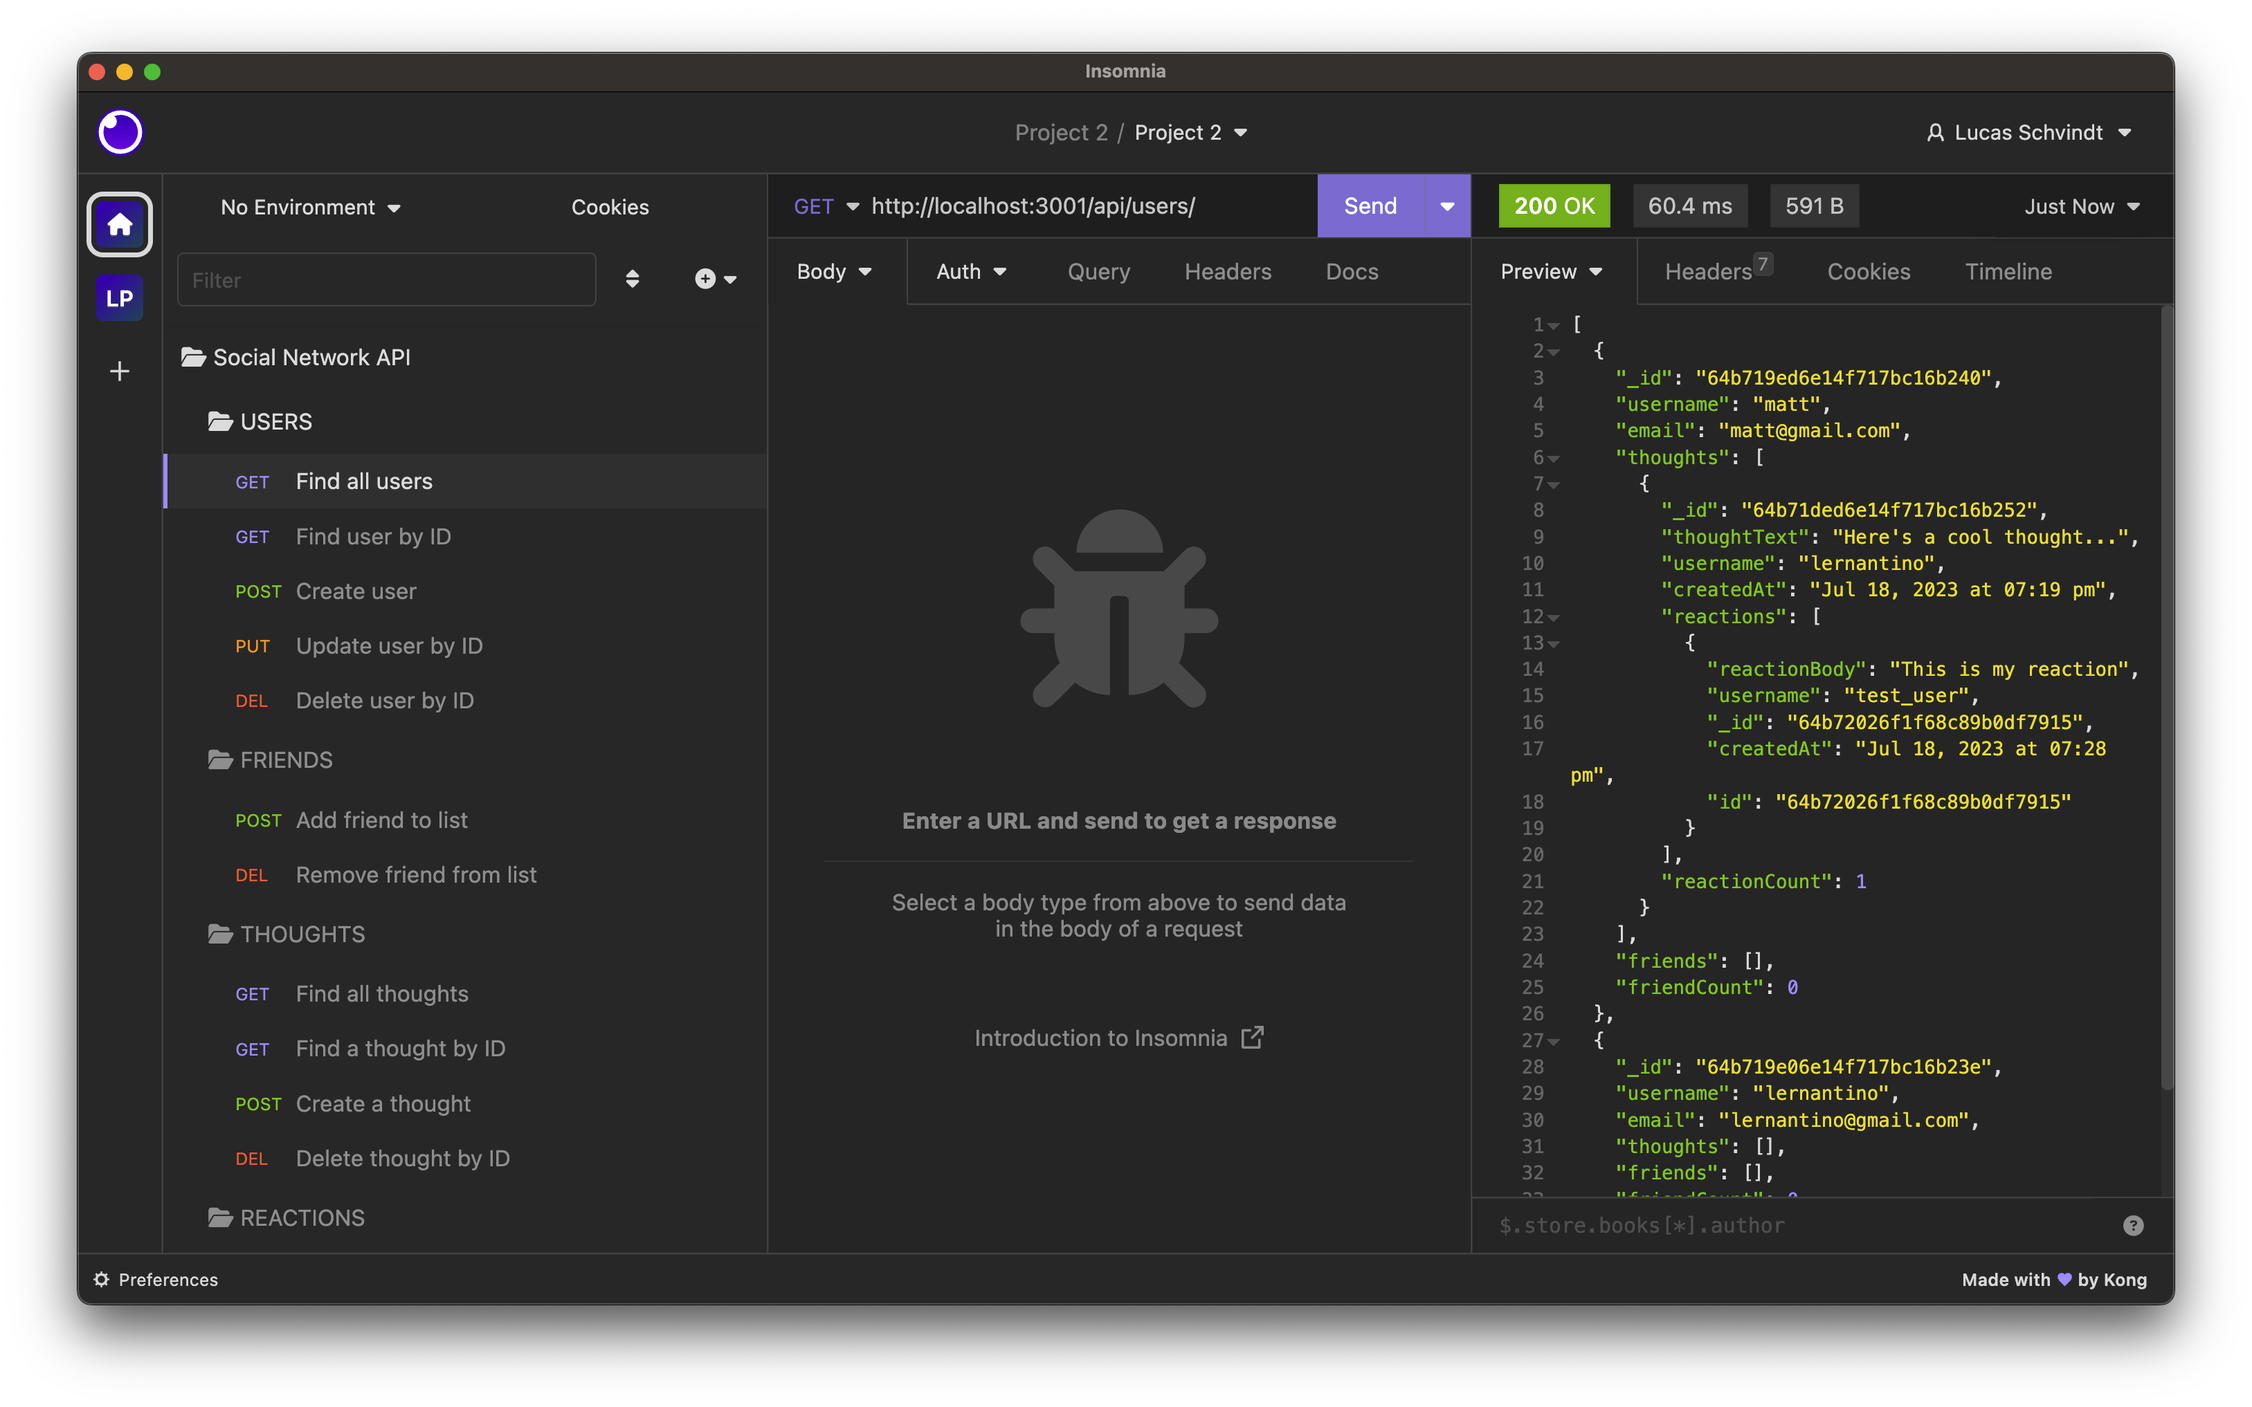
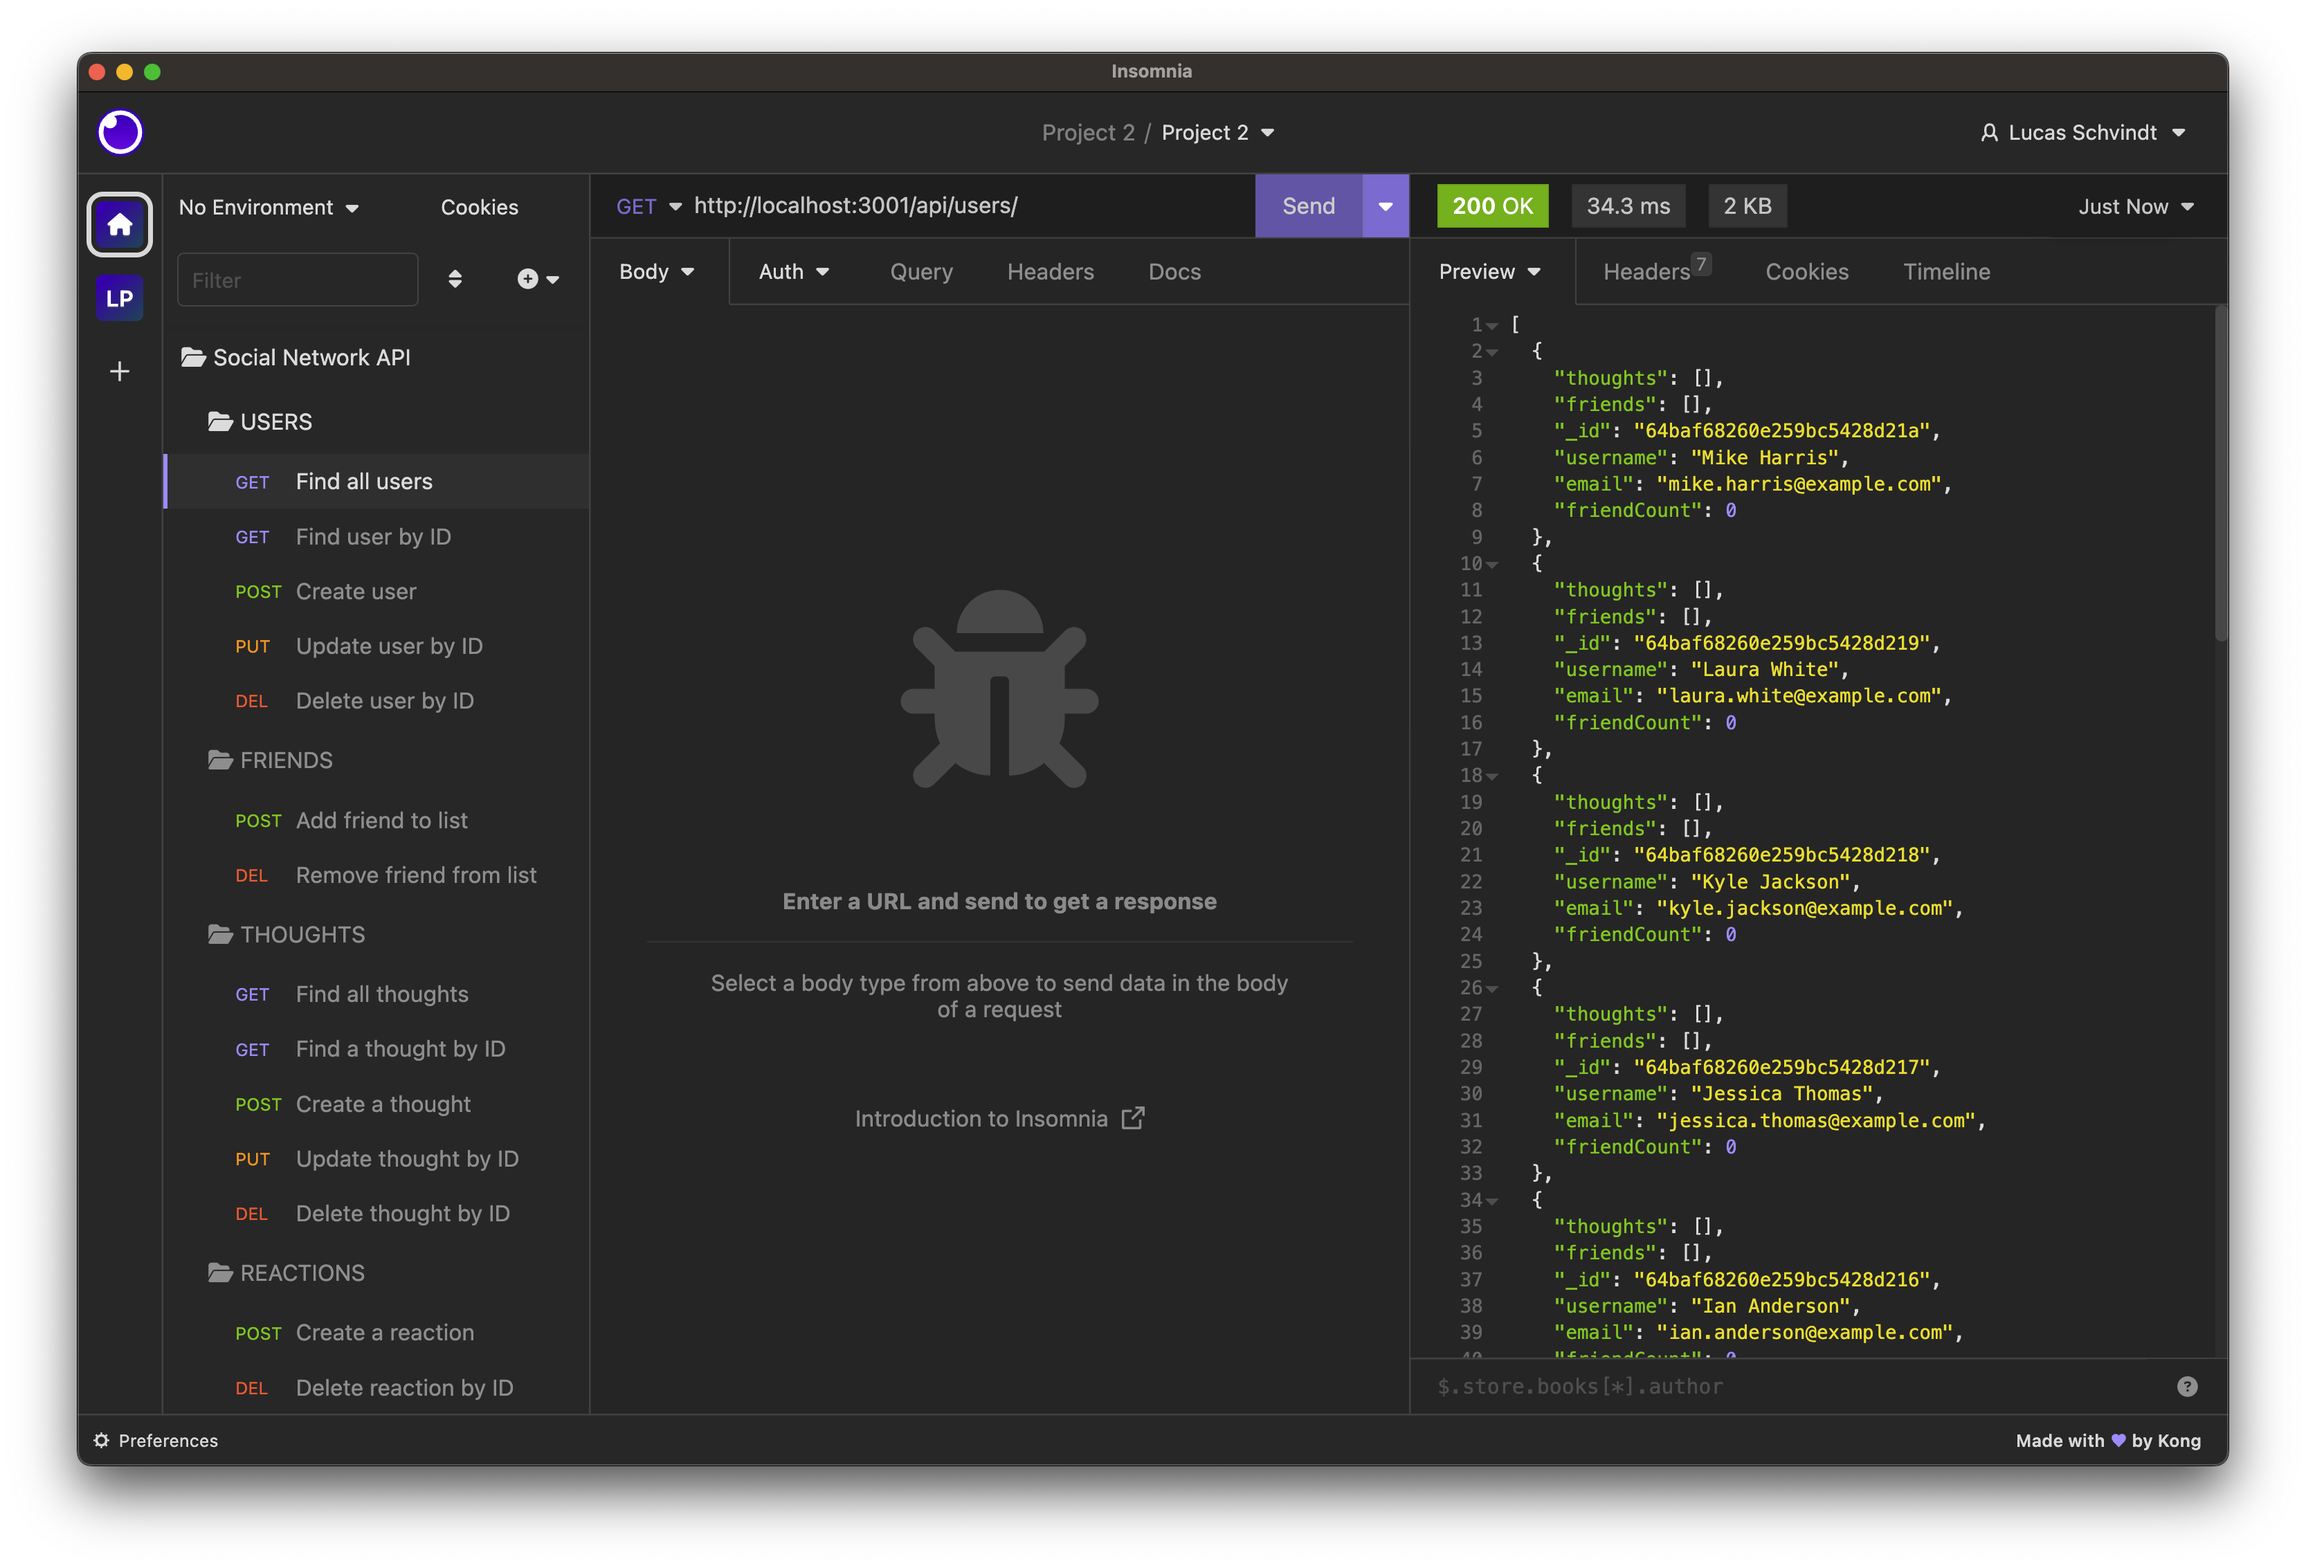
Added seeds and connection file

diff --git a/controllers/thought-controller.js b/controllers/thought-controller.js
@@ -1,7 +1,7 @@
 const { Thought, User } = require('../models');
 
 const thoughtController = {
-  // get all Thoughts
+  // Find all thoughts
   async getAllThoughts(req, res) {
     try {
       const dbThoughtData = await Thought.find({})
@@ -11,6 +11,11 @@ const thoughtController = {
         })
         .select('-__v')
         .sort({ _id: -1 });
+      
+      if (!dbThoughtData) {
+        res.status(404).json({ message: 'No thoughts found!' });
+        return;
+      }
 
       res.json(dbThoughtData);
     } catch (err) {
@@ -19,7 +24,7 @@ const thoughtController = {
     }
   },
 
-  // get one Thought by id
+  // Find a thought by id
   async getThoughtById({ params }, res) {
     try {
       const dbThoughtData = await Thought.findOne({ _id: params.id })
@@ -41,7 +46,7 @@ const thoughtController = {
     }
   },
 
-  // create Thought
+  // Create a thought
   async createThought({ body }, res) {
     try {
       const thought = await Thought.create(body);
@@ -52,7 +57,7 @@ const thoughtController = {
       );
   
       if (!dbUserData) {
-        res.status(404).json({ message: 'No user found with this id!' });
+        res.status(404).json({ message: 'No thought created!' });
         return;
       }
   
@@ -62,7 +67,7 @@ const thoughtController = {
     }
   },
 
-  // update Thought by id
+  // Update a thought by id
   async updateThought({ params, body }, res) {
     try {
       const dbThoughtData = await Thought.findOneAndUpdate(
@@ -97,7 +102,7 @@ const thoughtController = {
     }
   },
 
-  // Add reaction
+  // Add a reaction
   async addReaction({ params, body }, res) {
     try {
       const dbThoughtData = await Thought.findOneAndUpdate(
@@ -107,7 +112,7 @@ const thoughtController = {
       )
 
       if (!dbThoughtData) {
-          res.status(404).json({ message: 'No thought found with this id!' });
+          res.status(404).json({ message: 'No reaction created!' });
           return;
       }
 
@@ -117,7 +122,7 @@ const thoughtController = {
     };
   },
 
-  // Delete reaction
+  // Delete a reaction by id
   async removeReaction({ params }, res) {
     try {
       const dbThoughtData = await Thought.findOneAndUpdate(

diff --git a/utils/data.js b/utils/data.js
@@ -1,0 +1,32 @@
+module.exports = {
+    users: [
+        { username: "John Doe", email: "john.doe@example.com" },
+        { username: "Jane Smith", email: "jane.smith@example.com" },
+        { username: "Bob Johnson", email: "bob.johnson@example.com" },
+        { username: "Alice Williams", email: "alice.williams@example.com" },
+        { username: "Charlie Brown", email: "charlie.brown@example.com" },
+        { username: "Diana Davis", email: "diana.davis@example.com" },
+        { username: "Ethan Miller", email: "ethan.miller@example.com" },
+        { username: "Fiona Wilson", email: "fiona.wilson@example.com" },
+        { username: "Gregory Moore", email: "gregory.moore@example.com" },
+        { username: "Hannah Taylor", email: "hannah.taylor@example.com" },
+        { username: "Ian Anderson", email: "ian.anderson@example.com" },
+        { username: "Jessica Thomas", email: "jessica.thomas@example.com" },
+        { username: "Kyle Jackson", email: "kyle.jackson@example.com" },
+        { username: "Laura White", email: "laura.white@example.com" },
+        { username: "Mike Harris", email: "mike.harris@example.com" },
+    ],
+    thoughts: [
+        { thoughtText: "So much rain!" },
+        { thoughtText: "Coding will be fun they said." },
+        { thoughtText: "I'm happy with this project." },
+        { thoughtText: "Today is going to be a long day." },
+        { thoughtText: "I can't wait for the weekend." },
+        { thoughtText: "I should go for a walk." },
+        { thoughtText: "I should drink more water." },
+        { thoughtText: "Coding is fun!" },
+        { thoughtText: "I should read more books." },
+        { thoughtText: "I'm going to watch a movie tonight." },
+    ]
+};
+  

diff --git a/controllers/user-controller.js b/controllers/user-controller.js
@@ -1,7 +1,7 @@
 const { User, Thought } = require('../models');
 
 const userController = {
-  // get all users
+  // Find all users
   async getAllUsers(req, res) {
     try {
       const dbUserData = await User.find({})
@@ -19,7 +19,7 @@ const userController = {
     };
   },
 
-  // get one user by id
+  // Find a user by id
   async getUserById({ params }, res) {
     try {
       const dbUserData = await User.findOne({ _id: params.id })
@@ -35,7 +35,7 @@ const userController = {
     };
   },
 
-  // create User
+  // Create a user
   async createUser({ body }, res) {
     try {
       const dbUserData = await User.create(body)
@@ -46,7 +46,7 @@ const userController = {
     };
   },
 
-  // update User by id
+  // Update user by id
   async updateUser({ params, body }, res) {
     try {
       const dbUserData = await User.findOneAndUpdate(
@@ -66,7 +66,7 @@ const userController = {
     };
   },
 
-  // delete user
+  // Delete user by id
   async deleteUser({ params }, res) {
     try {
       const dbUserData = await User.findOneAndDelete({ _id: params.id });
@@ -82,7 +82,7 @@ const userController = {
     };
   },
 
-  // add a friend to a user's friend list
+  // Add a friend to a user's friend list
   async addFriend({ params }, res) {
     try {
       const dbUserData = await User.findOneAndUpdate(
@@ -105,7 +105,7 @@ const userController = {
     };
   },
 
-  // remove a friend from a user's friend list
+  // Remove a friend from a user's friend list
   async removeFriend({ params }, res) {
     try {
       const dbUserData = await User.findOneAndUpdate(

diff --git a/server.js b/server.js
@@ -1,21 +1,24 @@
 const express = require('express');
-const mongoose = require('mongoose');
+const db = require('./config/connection');
 const routes = require('./routes');
 
-const app = express();
+const cwd = process.cwd();
+
 const PORT = process.env.PORT || 3001;
+const app = express();
 
-app.use(express.json());
+// Note: not necessary for the Express server to function.
+// This just helps indicate what activity's server is running in the terminal.
+const activity = cwd.includes('01-Activities')
+  ? cwd.split('01-Activities')[1]
+  : cwd;
+
 app.use(express.urlencoded({ extended: true }));
-
+app.use(express.json());
 app.use(routes);
 
-mongoose.connect(process.env.MONGODB_URI || 'mongodb://localhost/social-network-api', {
-  useNewUrlParser: true,
-  useUnifiedTopology: true
+db.once('open', () => {
+  app.listen(PORT, () => {
+    console.log(`🌍 API server for ${activity} running on port ${PORT}!`);
+  });
 });
-
-// Use this to log mongo queries being executed!
-mongoose.set('debug', true);
-
-app.listen(PORT, () => console.log(`🌍 Connected on localhost:${PORT}`));

diff --git a/utils/seed.js b/utils/seed.js
@@ -1,0 +1,20 @@
+const connection = require('../config/connection');
+const { Thought, User } = require('../models');
+
+const seedData = require('./data');
+
+connection.on('error', (err) => err);
+
+connection.once('open', async () => {
+    console.log('connected');
+    await User.deleteMany({});
+    await Thought.deleteMany({});
+    // repeat for any additional collections
+
+    await User.collection.insertMany(seedData.users);
+    await Thought.collection.insertMany(seedData.thoughts);
+    // repeat for any additional collections
+
+    console.info('Seeding complete! 🌱');
+    process.exit(0);
+});

diff --git a/config/connection.js b/config/connection.js
@@ -1,0 +1,8 @@
+const { connect, connection } = require('mongoose');
+
+const connectionString =
+  process.env.MONGODB_URI || 'mongodb://localhost/social-network-api';
+
+connect(connectionString);
+
+module.exports = connection;
